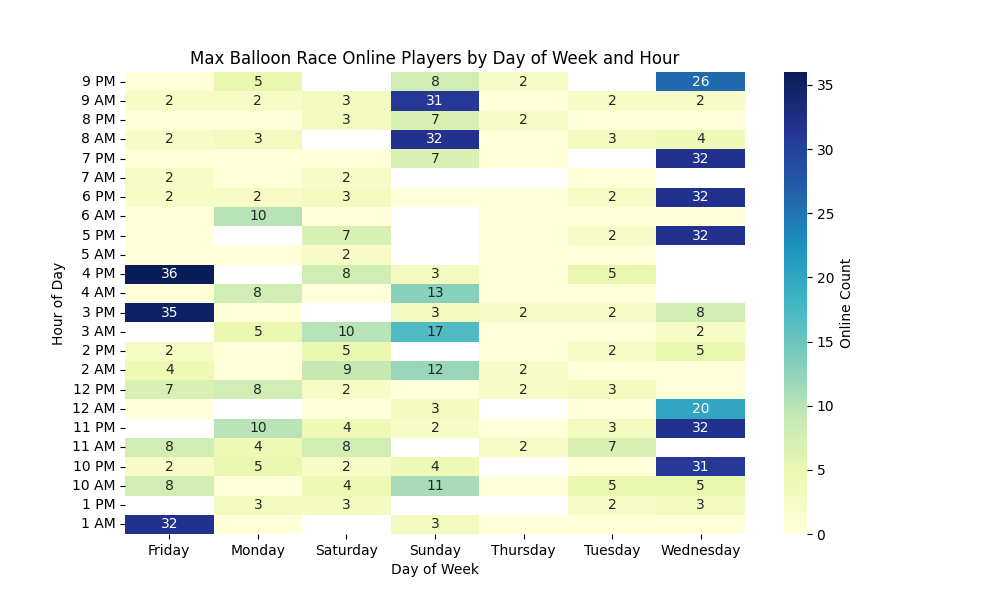
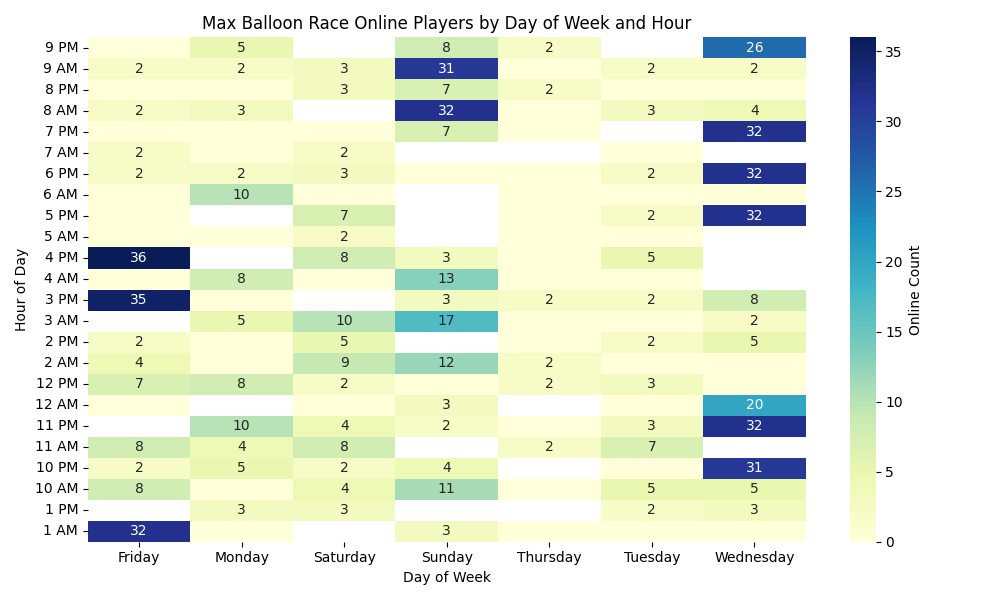
update

diff --git a/generate_report.py b/generate_report.py
@@ -58,6 +58,7 @@ for text in plt.gca().texts:
 plt.title('Max Balloon Race Online Players by Day of Week and Hour')
 plt.ylabel('Hour of Day')
 plt.xlabel('Day of Week')
+plt.tight_layout()
 
 # save
 plt.savefig(f"{output_folder}/heatmap.png")
@@ -83,8 +84,10 @@ plt.ylabel('People Online')
 plt.xlabel('Server Name')
 
 plt.title('Max Balloon Race Online Players by Server')
+plt.tight_layout()
 
 plt.savefig(f"{output_folder}/top_servers.png")
+
 
 
 
